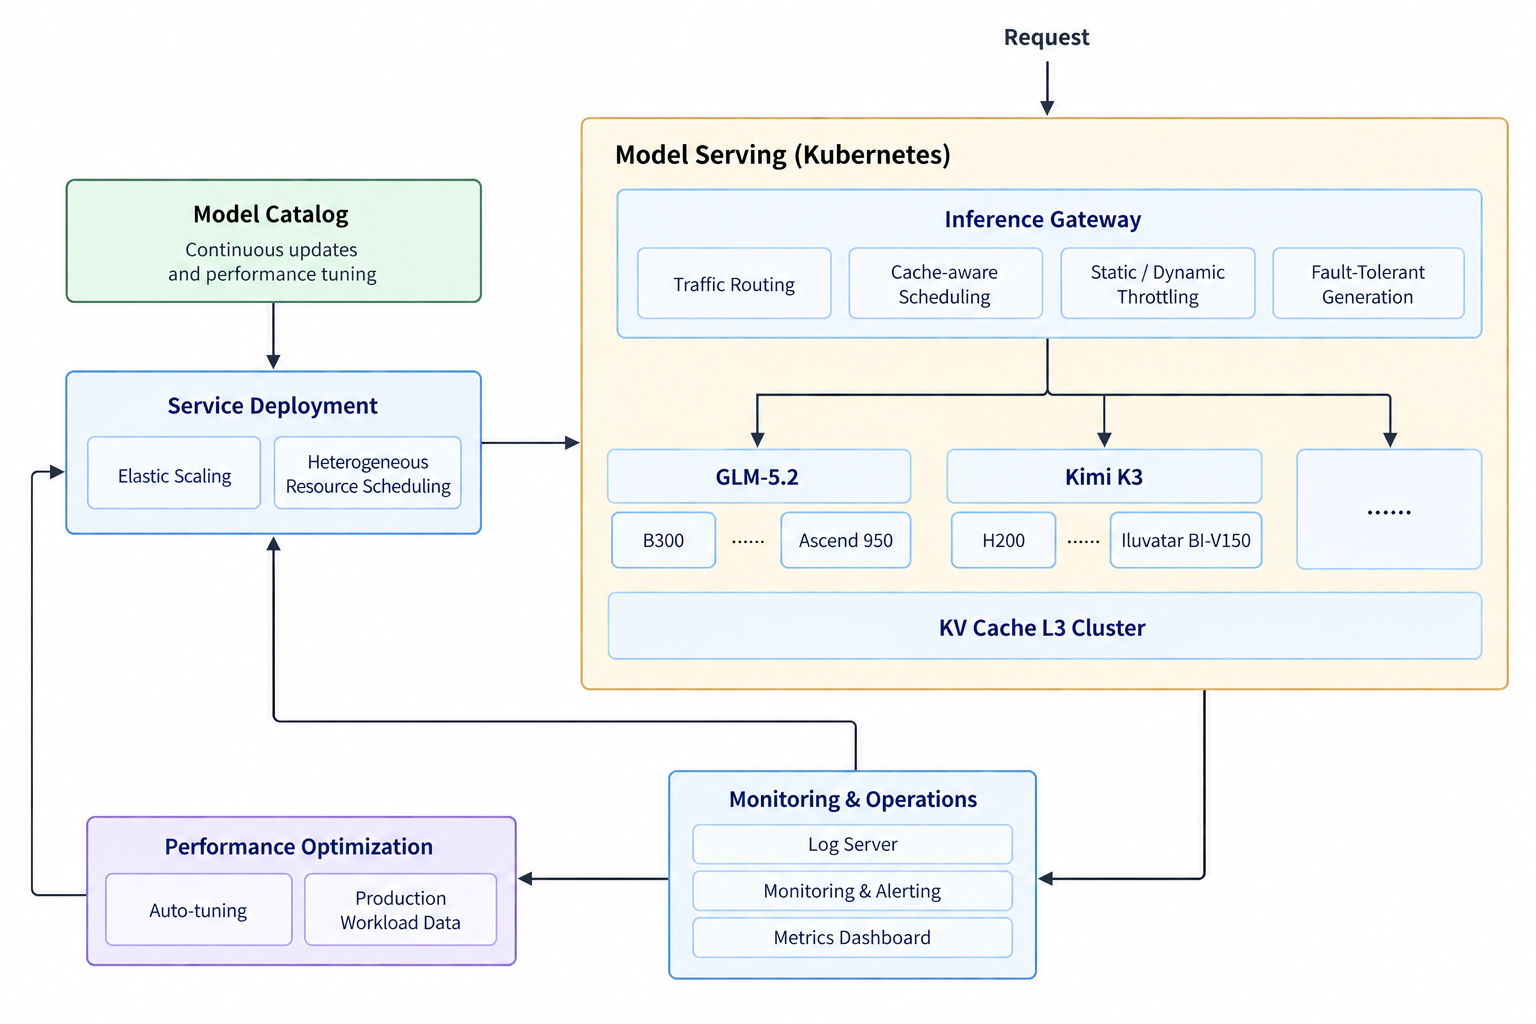
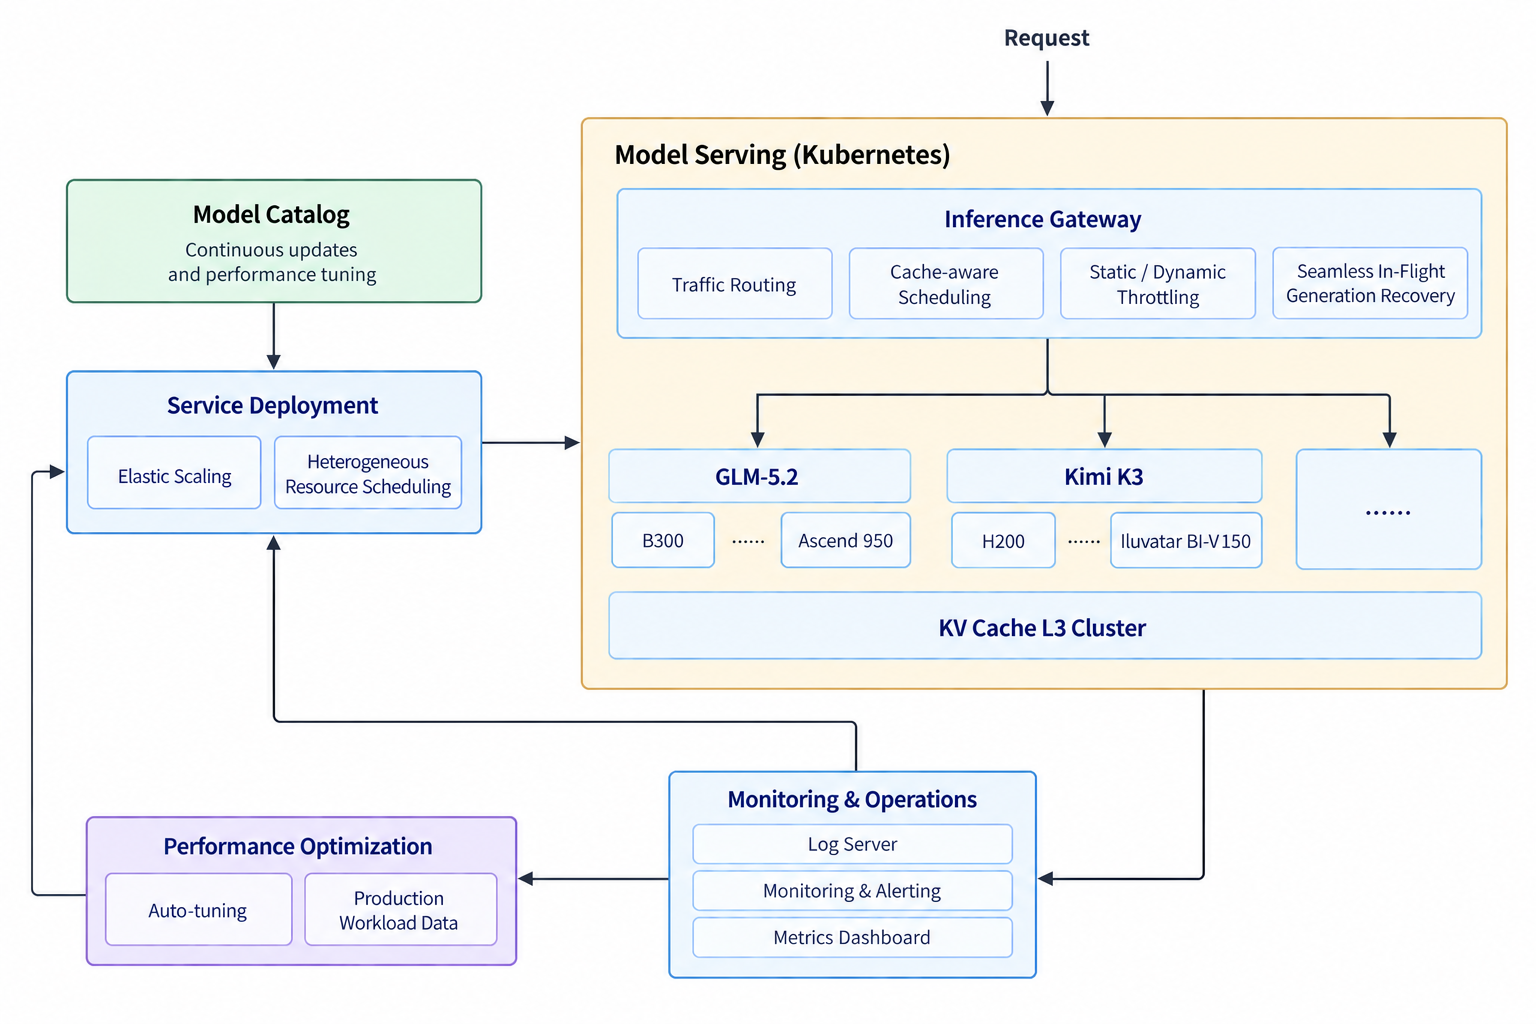
Docs/readme (#12)
* docs: improve docs/arch.png

* docs: readme

diff --git a/README.md b/README.md
@@ -18,19 +18,19 @@ ModelSphere is an open-source LLM inference platform designed to make production
 - **Intelligent Auto Scaling.** Dynamically adjusts inference replicas and compute resources based on real-time service demand, while prioritizing resources for high-priority models to improve overall GPU utilization.
 - **Quality-Aware Dynamic Throttling.** Goes beyond traditional RPM/TPM limits by dynamically controlling traffic based on real-time service metrics such as TTFT and output speed, maintaining service quality under changing workloads.
 - **Advanced Serving Architecture.** Supports advanced inference architectures such as Prefill/Decode disaggregation and a unified L3 KV cache pool, enabling efficient cache sharing and higher resource utilization across serving instances.
-- **Performance-Tuned Day-0 Deployment.** Rapidly supports newly released models with production-ready, performance-tuned deployment configurations optimized for real-world serving workloads. Please refer to our [model catalog](https://github.com/modelsphere/model-catalog) for more information.
+- **Performance-Tuned Day-0 Deployment.** Rapidly supports newly released models with production-ready, performance-tuned deployment configurations optimized for real-world serving workloads. Please refer to our [model catalog](https://modelsphere.github.io/model-catalog/) for more information.
 - **Broad Heterogeneous Accelerator Support.** Provides a unified serving stack across NVIDIA GPUs, Huawei Ascend, Iluvatar CoreX, and dozens of other AI accelerators, together with mainstream inference frameworks such as SGLang and vLLM.
+- **Seamless In-Flight Generation Recovery.** When a serving pod fails mid-generation, ModelSphere transfers the in-flight request to a healthy pod and resumes generation from the interruption point, without restarting the request or disrupting the client stream ([read more](https://github.com/modelsphere/continuation_gateway)).
 - **Workload-Driven AutoTune (preview version).** Uses real production workloads to automatically explore better serving configurations during idle compute periods ([read more](https://github.com/modelsphere/llm-autotune)).
-- **Seamless In-Flight Generation Recovery (coming soon).** When a serving pod fails mid-generation, ModelSphere transfers the in-flight request to a healthy pod and resumes generation from the interruption point, without restarting the request or disrupting the client stream.
 
 ## Quick start
 
-**Prerequisites**
+### **Prerequisites**
 
 1. a Kubernetes cluster, and `kubectl` pointing at it;
 2. `helm`, `helmfile` and the `helm-diff` plugin.
 
-**Step 1: install the stack**
+### **Step 1: install the stack**
 
 ```bash
 # 1. the stack itself, one pass
@@ -44,7 +44,9 @@ cp environments/private.yaml.example environments/mycluster.yaml   # edit it,
 make helm-apply ENV=mycluster
 ```
 
-**Step 2: deploy a model**
+### **Step 2: deploy a model**
+
+**Method 1: Using the command line**
 
 ```bash
 helm repo add modelsphere https://modelsphere.github.io/helm-charts
@@ -52,10 +54,15 @@ helm upgrade --install qwen modelsphere/sglang -n llm-demo --create-namespace \
   -f <your values.yaml>       # models/examples/sglang-qwen.yaml is a worked example
 ```
 
-The model is served through the routing layer, at `http://openresty.llm-route.svc:8080/<release>/v1/chat/completions` -- the
-release name from step 2 is the path prefix (`qwen` above), and it is how the router picks the model.
+The model is served through the routing layer, at `http://openresty.llm-route.svc:8080/<release>/v1/chat/completions` -- the release name from step 2 is the path prefix (`qwen` above), and it is how the router picks the model.
 
-**Step 3: test the service**
+**Method 2: Using the GUI platform**
+
+Alternatively, you can use our GUI platform to deploy a model.
+
+![image-20261008152111862](docs/model_catalog.png)
+
+### **Step 3: test the service**
 
 ```bash
 kubectl -n llm-route port-forward svc/openresty 8080:8080 &
